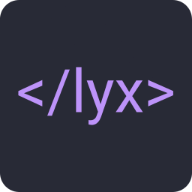
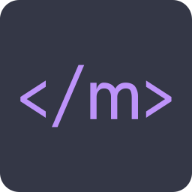
rebranding

Changed region(s): [[0.0938, 0.3125, 0.9062, 0.6875]]

diff --git a/posts/Gnu Stow.html b/posts/Gnu Stow.html
@@ -9,12 +9,12 @@
   <link rel="icon" href="/favicon.ico" type="image/x-icon">
 </head>
 <body>
-  <nav>
+   <nav>
     <div class="nav-left">
-        <label>&lt;/lyx&gt;</label>
-        <a href="https://lyxminx.xyz">Home</a>
-        <a href="https://blog.lyxminx.xyz">Blog</a>
-        <a href="https://lyxminx.xyz/projects.html">Projects</a>
+        <label>&lt;/maddie&gt;</label>
+        <a href="https://maddiemightcry.space">Home</a>
+        <a href="https://blog.maddiemightcry.space">Blog</a>
+        <a href="https://maddiemightcry.space/projects.html">Projects</a>
     </div>
     <div class="nav-right">
         <a href="https://github.com/Lyxminxx" class="socials">Github</a>
@@ -31,64 +31,64 @@
 <p>GNU stow is a symlink farmmanager <a href="https://www.gnu.org/software/stow/">gnu.org</a>. In simpler terms this means it is an easy way of setting up symlinks. This makes it possible to have one folder with all your dotfiles, and with one command you can link them all to the right places on your system.</p>
 <h2><strong>Setting up stow</strong></h2>
 <p>The setup process was simple enough, I made a folder with the name .config and added all files that go into .config on my system into it. Which looks something like this:</p>
-<pre class="codehilite"><code>dotfiles/.config/
+<div class="codehilite"><pre><span></span><code><span class="n">dotfiles</span><span class="o">/.</span><span class="n">config</span><span class="o">/</span>
 
-├── alacritty/
-│   ├── alacritty.toml
-│   └── dracula.toml
-├── fastfetch/
-│   └── config.jsonc
-├── fish/
-│   ├── completions/
-│   ├── conf.d/
-│   ├── config.fish
-│   ├── fish_variables
-│   └── functions/
-│       └── fish_prompt.fish
-├── gtk-3.0/
-│   ├── bookmarks
-│   └── settings.ini
-├── gtk-4.0/
-│   └── settings.ini
-├── mako/
-│   └── config
-├── rofi/
-│   ├── config.rasi
-│   ├── rofi-exit.sh
-│   ├── rofi-wifi-menu.sh
-│   ├── scriptLauncher.sh
-│   └── scripts/
-│       ├── calculator.sh
-│       ├── currency.sh
-│       ├── hardware.sh
-│       └── measure.sh
-├── sway/
-│   ├── autostart
-│   ├── binds
-│   ├── config
-│   ├── scripts/
-│   │   ├── display-autoset.sh
-│   │   ├── display-menu.sh
-│   │   └── songnotify.sh
-│   ├── theme
-│   └── windowRules
-├── swaylock/
-│   ├── config
-│   └── dracula-wallpaper.svg
-└── waybar/
-    ├── config
-    ├── scripts/
-    │   ├── .env
-    │   ├── .env-example
-    │   ├── batteryNotify.sh
-    │   ├── brightness.sh
-    │   ├── notify-toggle.sh
-    │   ├── open_weather.sh
-    │   ├── swayidle_status.sh
-    │   ├── swayidle_toggle.sh
-    │   └── weather.py
-    └── style.css
-</code></pre>
+<span class="err">├──</span><span class="w"> </span><span class="n">alacritty</span><span class="o">/</span>
+<span class="err">│</span><span class="w">   </span><span class="err">├──</span><span class="w"> </span><span class="n">alacritty</span><span class="o">.</span><span class="n">toml</span>
+<span class="err">│</span><span class="w">   </span><span class="err">└──</span><span class="w"> </span><span class="n">dracula</span><span class="o">.</span><span class="n">toml</span>
+<span class="err">├──</span><span class="w"> </span><span class="n">fastfetch</span><span class="o">/</span>
+<span class="err">│</span><span class="w">   </span><span class="err">└──</span><span class="w"> </span><span class="n">config</span><span class="o">.</span><span class="n">jsonc</span>
+<span class="err">├──</span><span class="w"> </span><span class="n">fish</span><span class="o">/</span>
+<span class="err">│</span><span class="w">   </span><span class="err">├──</span><span class="w"> </span><span class="n">completions</span><span class="o">/</span>
+<span class="err">│</span><span class="w">   </span><span class="err">├──</span><span class="w"> </span><span class="n">conf</span><span class="o">.</span><span class="n">d</span><span class="o">/</span>
+<span class="err">│</span><span class="w">   </span><span class="err">├──</span><span class="w"> </span><span class="n">config</span><span class="o">.</span><span class="n">fish</span>
+<span class="err">│</span><span class="w">   </span><span class="err">├──</span><span class="w"> </span><span class="n">fish_variables</span>
+<span class="err">│</span><span class="w">   </span><span class="err">└──</span><span class="w"> </span><span class="n">functions</span><span class="o">/</span>
+<span class="err">│</span><span class="w">       </span><span class="err">└──</span><span class="w"> </span><span class="n">fish_prompt</span><span class="o">.</span><span class="n">fish</span>
+<span class="err">├──</span><span class="w"> </span><span class="n">gtk</span><span class="o">-</span><span class="mf">3.0</span><span class="o">/</span>
+<span class="err">│</span><span class="w">   </span><span class="err">├──</span><span class="w"> </span><span class="n">bookmarks</span>
+<span class="err">│</span><span class="w">   </span><span class="err">└──</span><span class="w"> </span><span class="n">settings</span><span class="o">.</span><span class="n">ini</span>
+<span class="err">├──</span><span class="w"> </span><span class="n">gtk</span><span class="o">-</span><span class="mf">4.0</span><span class="o">/</span>
+<span class="err">│</span><span class="w">   </span><span class="err">└──</span><span class="w"> </span><span class="n">settings</span><span class="o">.</span><span class="n">ini</span>
+<span class="err">├──</span><span class="w"> </span><span class="n">mako</span><span class="o">/</span>
+<span class="err">│</span><span class="w">   </span><span class="err">└──</span><span class="w"> </span><span class="n">config</span>
+<span class="err">├──</span><span class="w"> </span><span class="n">rofi</span><span class="o">/</span>
+<span class="err">│</span><span class="w">   </span><span class="err">├──</span><span class="w"> </span><span class="n">config</span><span class="o">.</span><span class="n">rasi</span>
+<span class="err">│</span><span class="w">   </span><span class="err">├──</span><span class="w"> </span><span class="n">rofi</span><span class="o">-</span><span class="n">exit</span><span class="o">.</span><span class="n">sh</span>
+<span class="err">│</span><span class="w">   </span><span class="err">├──</span><span class="w"> </span><span class="n">rofi</span><span class="o">-</span><span class="n">wifi</span><span class="o">-</span><span class="n">menu</span><span class="o">.</span><span class="n">sh</span>
+<span class="err">│</span><span class="w">   </span><span class="err">├──</span><span class="w"> </span><span class="n">scriptLauncher</span><span class="o">.</span><span class="n">sh</span>
+<span class="err">│</span><span class="w">   </span><span class="err">└──</span><span class="w"> </span><span class="n">scripts</span><span class="o">/</span>
+<span class="err">│</span><span class="w">       </span><span class="err">├──</span><span class="w"> </span><span class="n">calculator</span><span class="o">.</span><span class="n">sh</span>
+<span class="err">│</span><span class="w">       </span><span class="err">├──</span><span class="w"> </span><span class="n">currency</span><span class="o">.</span><span class="n">sh</span>
+<span class="err">│</span><span class="w">       </span><span class="err">├──</span><span class="w"> </span><span class="n">hardware</span><span class="o">.</span><span class="n">sh</span>
+<span class="err">│</span><span class="w">       </span><span class="err">└──</span><span class="w"> </span><span class="n">measure</span><span class="o">.</span><span class="n">sh</span>
+<span class="err">├──</span><span class="w"> </span><span class="n">sway</span><span class="o">/</span>
+<span class="err">│</span><span class="w">   </span><span class="err">├──</span><span class="w"> </span><span class="n">autostart</span>
+<span class="err">│</span><span class="w">   </span><span class="err">├──</span><span class="w"> </span><span class="n">binds</span>
+<span class="err">│</span><span class="w">   </span><span class="err">├──</span><span class="w"> </span><span class="n">config</span>
+<span class="err">│</span><span class="w">   </span><span class="err">├──</span><span class="w"> </span><span class="n">scripts</span><span class="o">/</span>
+<span class="err">│</span><span class="w">   </span><span class="err">│</span><span class="w">   </span><span class="err">├──</span><span class="w"> </span><span class="n">display</span><span class="o">-</span><span class="n">autoset</span><span class="o">.</span><span class="n">sh</span>
+<span class="err">│</span><span class="w">   </span><span class="err">│</span><span class="w">   </span><span class="err">├──</span><span class="w"> </span><span class="n">display</span><span class="o">-</span><span class="n">menu</span><span class="o">.</span><span class="n">sh</span>
+<span class="err">│</span><span class="w">   </span><span class="err">│</span><span class="w">   </span><span class="err">└──</span><span class="w"> </span><span class="n">songnotify</span><span class="o">.</span><span class="n">sh</span>
+<span class="err">│</span><span class="w">   </span><span class="err">├──</span><span class="w"> </span><span class="n">theme</span>
+<span class="err">│</span><span class="w">   </span><span class="err">└──</span><span class="w"> </span><span class="n">windowRules</span>
+<span class="err">├──</span><span class="w"> </span><span class="n">swaylock</span><span class="o">/</span>
+<span class="err">│</span><span class="w">   </span><span class="err">├──</span><span class="w"> </span><span class="n">config</span>
+<span class="err">│</span><span class="w">   </span><span class="err">└──</span><span class="w"> </span><span class="n">dracula</span><span class="o">-</span><span class="n">wallpaper</span><span class="o">.</span><span class="n">svg</span>
+<span class="err">└──</span><span class="w"> </span><span class="n">waybar</span><span class="o">/</span>
+<span class="w">    </span><span class="err">├──</span><span class="w"> </span><span class="n">config</span>
+<span class="w">    </span><span class="err">├──</span><span class="w"> </span><span class="n">scripts</span><span class="o">/</span>
+<span class="w">    </span><span class="err">│</span><span class="w">   </span><span class="err">├──</span><span class="w"> </span><span class="o">.</span><span class="n">env</span>
+<span class="w">    </span><span class="err">│</span><span class="w">   </span><span class="err">├──</span><span class="w"> </span><span class="o">.</span><span class="n">env</span><span class="o">-</span><span class="n">example</span>
+<span class="w">    </span><span class="err">│</span><span class="w">   </span><span class="err">├──</span><span class="w"> </span><span class="n">batteryNotify</span><span class="o">.</span><span class="n">sh</span>
+<span class="w">    </span><span class="err">│</span><span class="w">   </span><span class="err">├──</span><span class="w"> </span><span class="n">brightness</span><span class="o">.</span><span class="n">sh</span>
+<span class="w">    </span><span class="err">│</span><span class="w">   </span><span class="err">├──</span><span class="w"> </span><span class="n">notify</span><span class="o">-</span><span class="n">toggle</span><span class="o">.</span><span class="n">sh</span>
+<span class="w">    </span><span class="err">│</span><span class="w">   </span><span class="err">├──</span><span class="w"> </span><span class="n">open_weather</span><span class="o">.</span><span class="n">sh</span>
+<span class="w">    </span><span class="err">│</span><span class="w">   </span><span class="err">├──</span><span class="w"> </span><span class="n">swayidle_status</span><span class="o">.</span><span class="n">sh</span>
+<span class="w">    </span><span class="err">│</span><span class="w">   </span><span class="err">├──</span><span class="w"> </span><span class="n">swayidle_toggle</span><span class="o">.</span><span class="n">sh</span>
+<span class="w">    </span><span class="err">│</span><span class="w">   </span><span class="err">└──</span><span class="w"> </span><span class="n">weather</span><span class="o">.</span><span class="n">py</span>
+<span class="w">    </span><span class="err">└──</span><span class="w"> </span><span class="n">style</span><span class="o">.</span><span class="n">css</span>
+</code></pre></div>
 
 <p>So my dotfiles are now all in a .config folder just not in my home directory. I can now run <code>stow .</code> in the dotfiles directory and all the files get placed in the correct places.</p>
 <h2><strong>Setting up a repo</strong></h2>

diff --git a/posts/Building my website.html b/posts/Building my website.html
@@ -9,12 +9,12 @@
   <link rel="icon" href="/favicon.ico" type="image/x-icon">
 </head>
 <body>
-  <nav>
+   <nav>
     <div class="nav-left">
-        <label>&lt;/lyx&gt;</label>
-        <a href="https://lyxminx.xyz">Home</a>
-        <a href="https://blog.lyxminx.xyz">Blog</a>
-        <a href="https://lyxminx.xyz/projects.html">Projects</a>
+        <label>&lt;/maddie&gt;</label>
+        <a href="https://maddiemightcry.space">Home</a>
+        <a href="https://blog.maddiemightcry.space">Blog</a>
+        <a href="https://maddiemightcry.space/projects.html">Projects</a>
     </div>
     <div class="nav-right">
         <a href="https://github.com/Lyxminxx" class="socials">Github</a>

diff --git a/posts/Someone shared their ssid, 10 minutes later I found their house.html b/posts/Someone shared their ssid, 10 minutes later I found their house.html
@@ -9,12 +9,12 @@
   <link rel="icon" href="/favicon.ico" type="image/x-icon">
 </head>
 <body>
-  <nav>
+   <nav>
     <div class="nav-left">
-        <label>&lt;/lyx&gt;</label>
-        <a href="https://lyxminx.xyz">Home</a>
-        <a href="https://blog.lyxminx.xyz">Blog</a>
-        <a href="https://lyxminx.xyz/projects.html">Projects</a>
+        <label>&lt;/maddie&gt;</label>
+        <a href="https://maddiemightcry.space">Home</a>
+        <a href="https://blog.maddiemightcry.space">Blog</a>
+        <a href="https://maddiemightcry.space/projects.html">Projects</a>
     </div>
     <div class="nav-right">
         <a href="https://github.com/Lyxminxx" class="socials">Github</a>

diff --git a/template/template.html b/template/template.html
@@ -9,12 +9,12 @@
   <link rel="icon" href="/favicon.ico" type="image/x-icon">
 </head>
 <body>
-  <nav>
+   <nav>
     <div class="nav-left">
-        <label>&lt;/lyx&gt;</label>
-        <a href="https://lyxminx.xyz">Home</a>
-        <a href="https://blog.lyxminx.xyz">Blog</a>
-        <a href="https://lyxminx.xyz/projects.html">Projects</a>
+        <label>&lt;/maddie&gt;</label>
+        <a href="https://maddiemightcry.space">Home</a>
+        <a href="https://blog.maddiemightcry.space">Blog</a>
+        <a href="https://maddiemightcry.space/projects.html">Projects</a>
     </div>
     <div class="nav-right">
         <a href="https://github.com/Lyxminxx" class="socials">Github</a>
